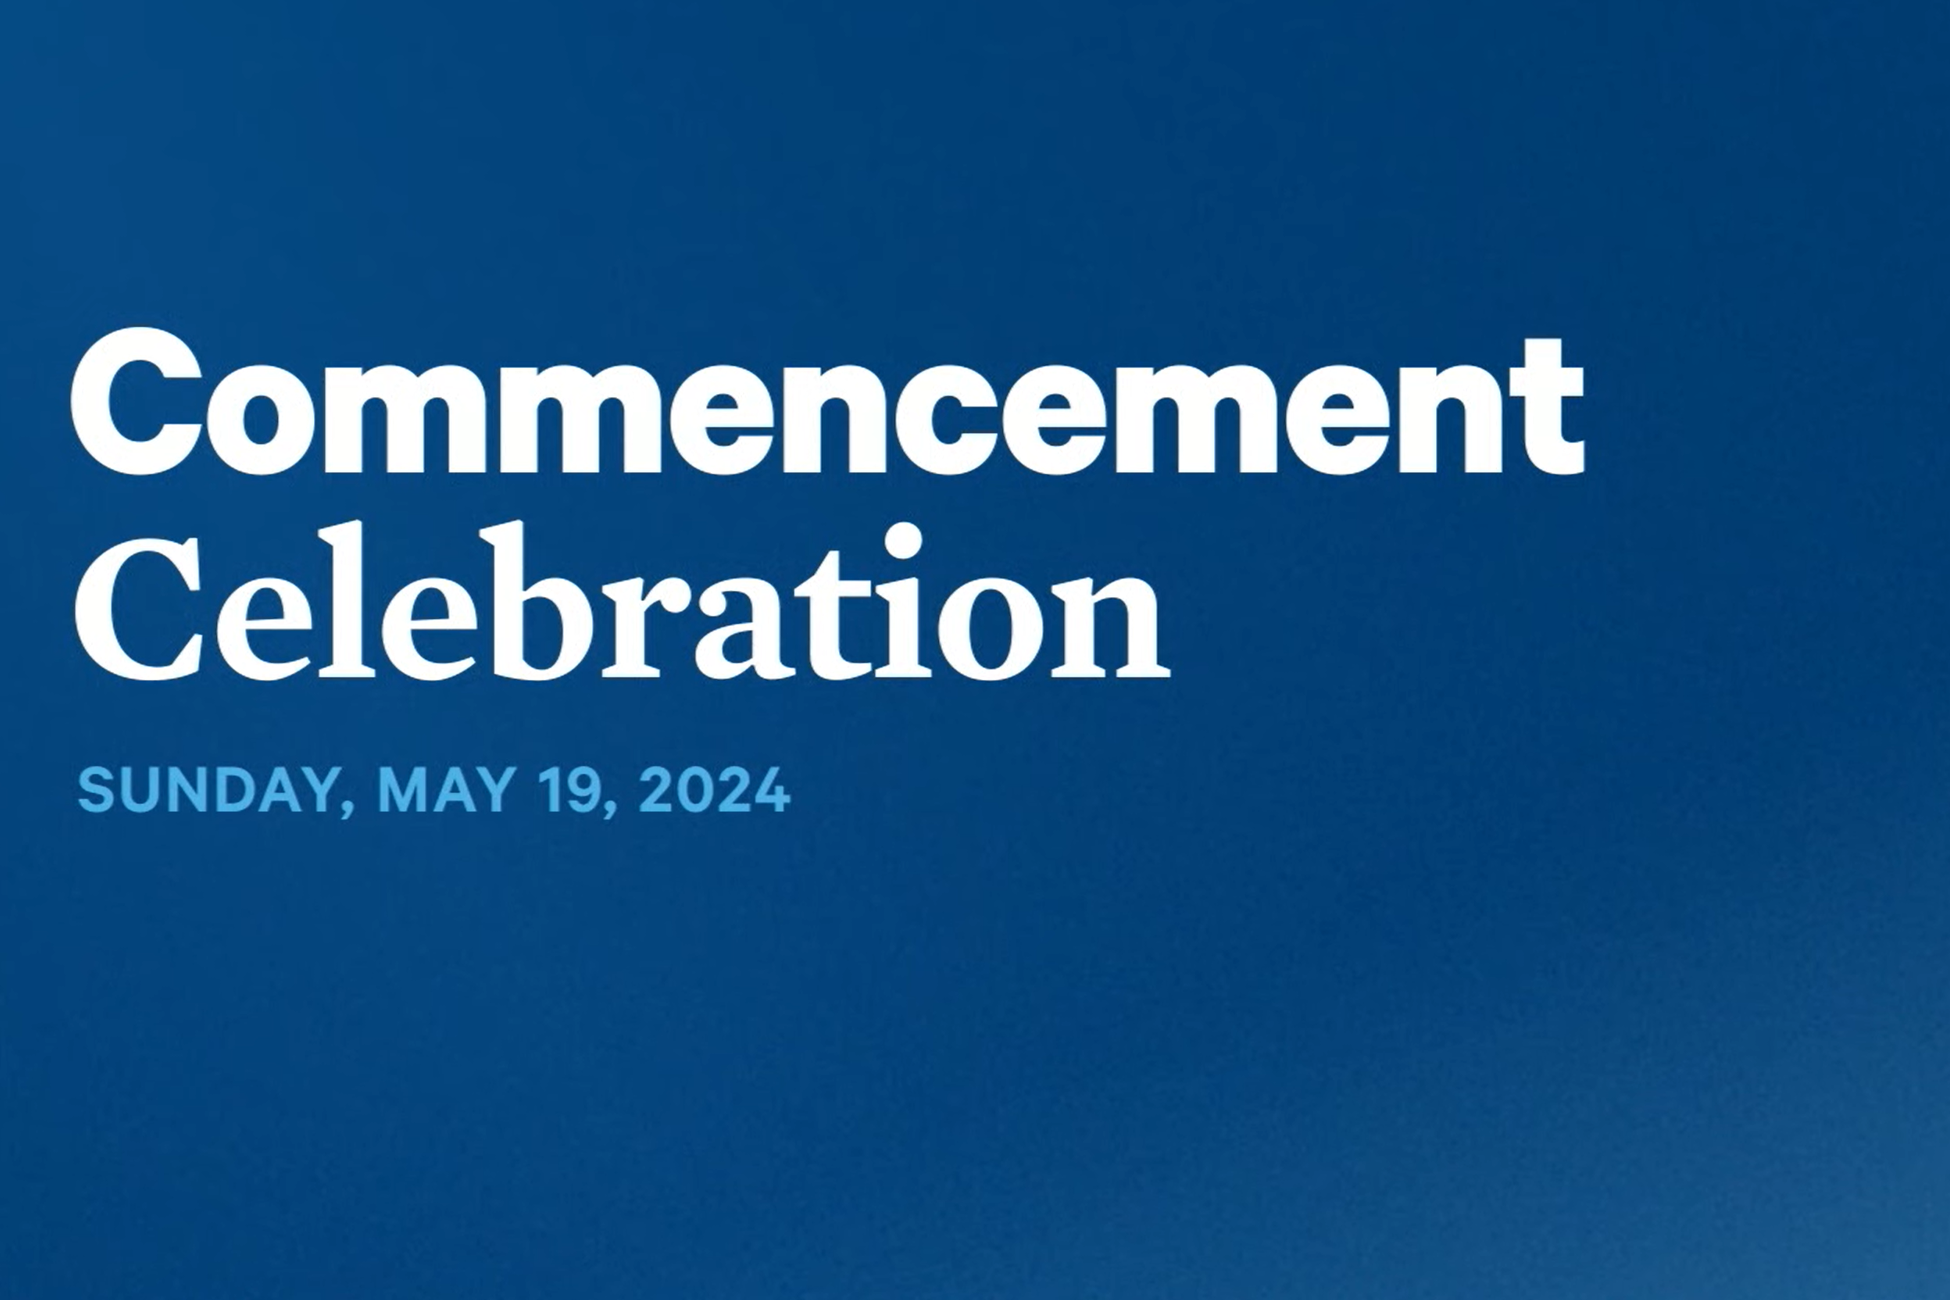
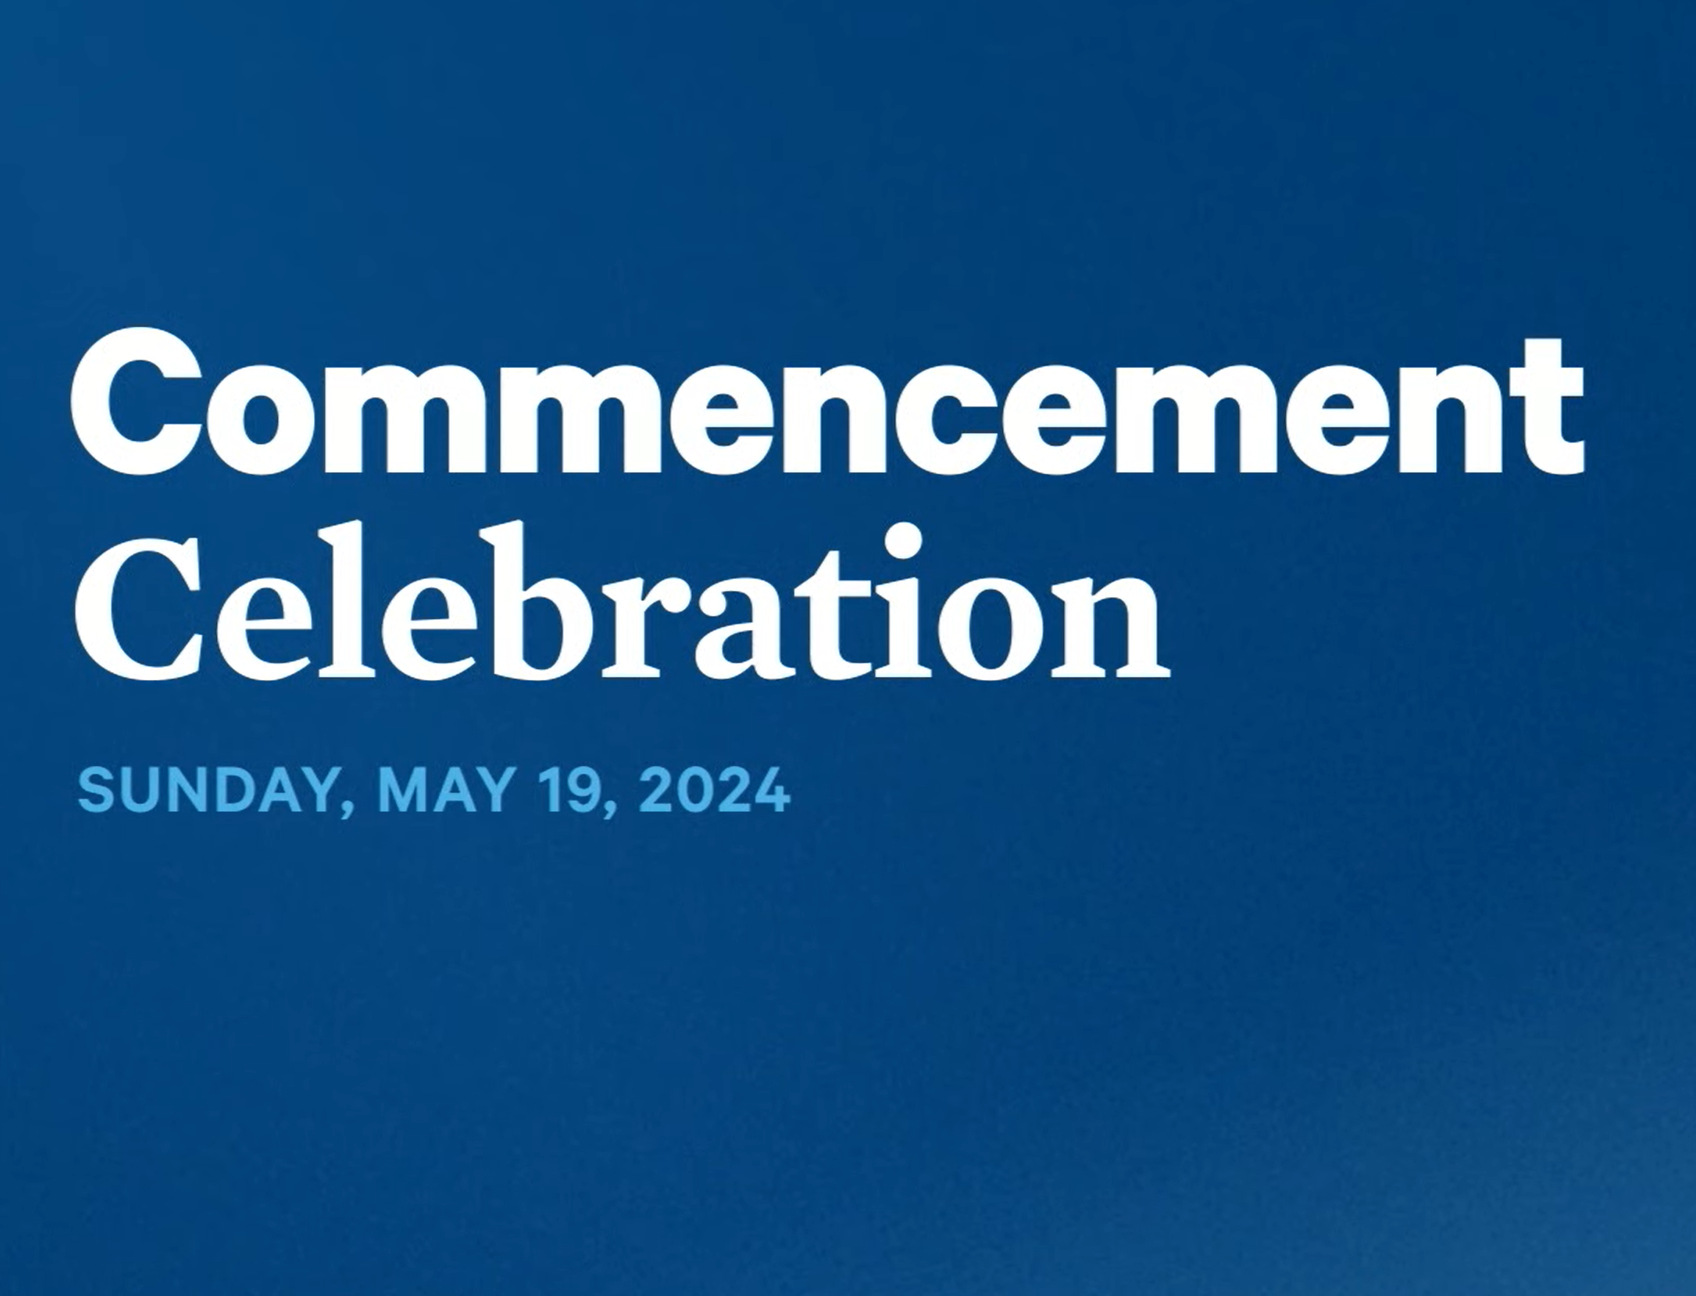
fixed the commencment img, swaped some of the data

Changed region(s): [[0.0312, 0.2469, 0.9375, 0.3704], [0.0312, 0.4012, 0.6875, 0.5247], [0.0312, 0.5864, 0.4688, 0.6481]]

diff --git a/src/components/Portfolio/Carousel/data.js b/src/components/Portfolio/Carousel/data.js
@@ -1,13 +1,8 @@
-import image0 from "../../../images/deer-img.jpg";
-import image1 from "../../../images/giraffe-img.avif";
-import image2 from "../../../images/lepord-img.avif";
-import image3 from "../../../images/parrot-img.webp";
-import image4 from "../../../images/tiger-img.jpeg";
-
-// import video0 from "../Videos/from_earth_to_earth__the_lost_art_of_dying_in_america_.mp4"
-// import video1 from "../Videos/rx_experience.mp4"
-// import video2 from "../Videos/DShaffer_Assn2_Knives_Out.mp4"
-// import video3 from "../Videos/superMarioBros.mp4"
+import EtE_img from "../../../images/Earth_to_Earth_img.png";
+import Strike_img from "../../../images/Strike_img.png";
+import after_img from "../../../images/After_img.png";
+import Commencement_img from "../../../images/Commencement_img.png";
+import RX_experience_img from "../../../images/RX_experience_img.png";
 
 import video0 from "../../Videos/video.mp4"
 import video2 from "../../Videos/video.mp4"
@@ -16,11 +11,11 @@ const afterVideo = "https://www.youtube.com/embed/02WzKIVfdy0?si=pNN1qm2MtgitcAS
 const comensmentVideo = "https://www.youtube.com/embed/FeQMQJ7SiQ8?si=-5PirCVpcrToYAnf"
 
 export const images = [
-  { img: image0, video: video0, button: true, header: "From Earth to Earth: The Lost Art of Dying in America", description: "Sound Designer/Re-recording Mixer - This documentary explores the death industry in America and more specifically natural burial and how it is better for our environment and ourselves. I was lucky enough to be a part of this project as this doc has gone on to be recognized in various film festivals as well as win a Webby Award for Best Short Form Documentary in the Student Division." },
-  { img: image1, video: strikeVideo, button: true, header: "Strike!", description: "This was a project I completed for a motion graphics and animation course. I was quite proud of it so I submitted it to the Broadcast Education Association’s On Location Creative Competition where I won Best Short Narrative."},
-  { img: image2, video: afterVideo, button: true, header: "After", description: "This was one of my favorite projects I’ve ever worked on. I enjoyed getting to enhance the story of these two ghosts through the use of sound."},
-  { img: image3, video: comensmentVideo, button: true, header: "Ithaca College Spring Commencement 2024", description: "Technical Lead and Technical Director - For this ceremony and livestream, I was largely responsible for establishing all of the signal flow within the control room and the stadium to ensure a smooth "},
-  { img: image4, video: video2, button: true, header: "RX Experiance", description: "I was given a short scene from a film for a class  where the location sound was quite messy. I utilized Izotope RX to assist in cleaning lots of the audio."}
+  { img: EtE_img, video: video0, button: true, header: "From Earth to Earth: The Lost Art of Dying in America", description: "Sound Designer/Re-recording Mixer - This documentary explores the death industry in America and more specifically natural burial and how it is better for our environment and ourselves. I was lucky enough to be a part of this project as this doc has gone on to be recognized in various film festivals as well as win a Webby Award for Best Short Form Documentary in the Student Division." },
+  { img: Strike_img, video: strikeVideo, button: true, header: "Strike!", description: "This was a project I completed for a motion graphics and animation course. I was quite proud of it so I submitted it to the Broadcast Education Association’s On Location Creative Competition where I won Best Short Narrative."},
+  { img: after_img, video: afterVideo, button: true, header: "After", description: "This was one of my favorite projects I’ve ever worked on. I enjoyed getting to enhance the story of these two ghosts through the use of sound."},
+  { img: Commencement_img, video: comensmentVideo, button: true, header: "Ithaca College Spring Commencement 2024", description: "Technical Lead and Technical Director - For this ceremony and livestream, I was largely responsible for establishing all of the signal flow within the control room and the stadium to ensure a smooth "},
+  { img: RX_experience_img, video: video2, button: true, header: "RX Experiance", description: "I was given a short scene from a film for a class  where the location sound was quite messy. I utilized Izotope RX to assist in cleaning lots of the audio."}
 ];
 
 export default images;
